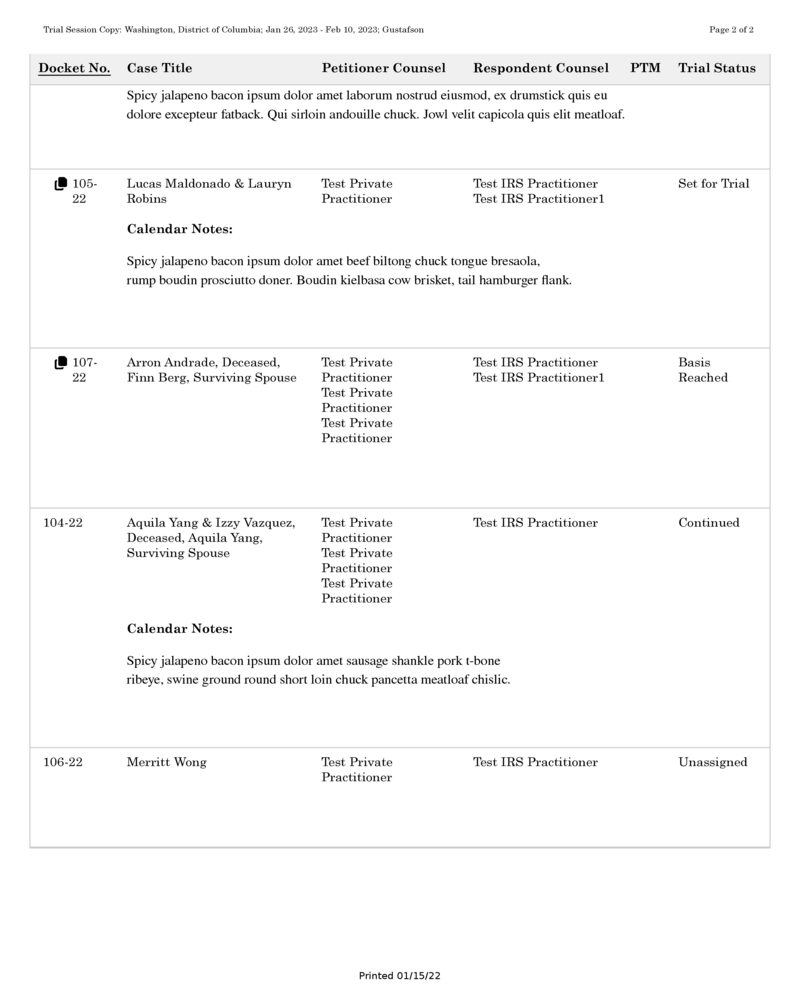
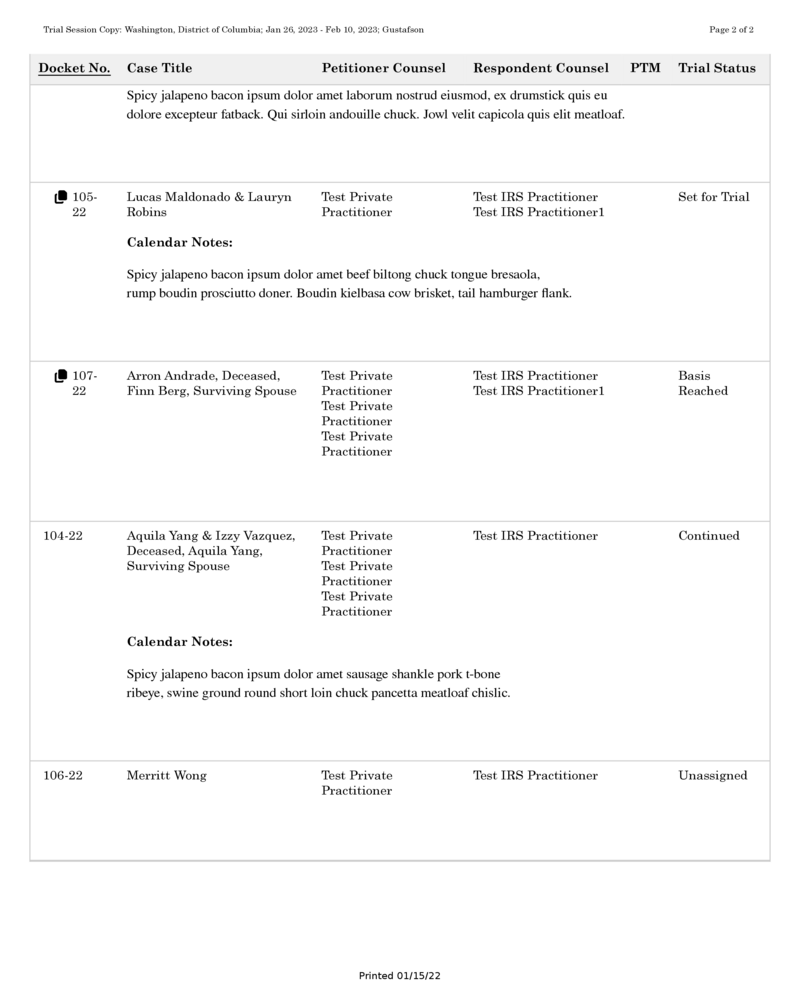
dependency updates: update printable trial session working copy without case notes 2

diff --git a/CHANGES.md b/CHANGES.md
@@ -1,3 +1,6 @@
+<details><summary>Dependency Updates - Week of 2026-03-09</summary>
+- update printable trial session working copy without case notes 2 pdf
+</details>
 <details><summary>Dependency Updates - Week of 2026-03-02</summary>
 
 ## Local
